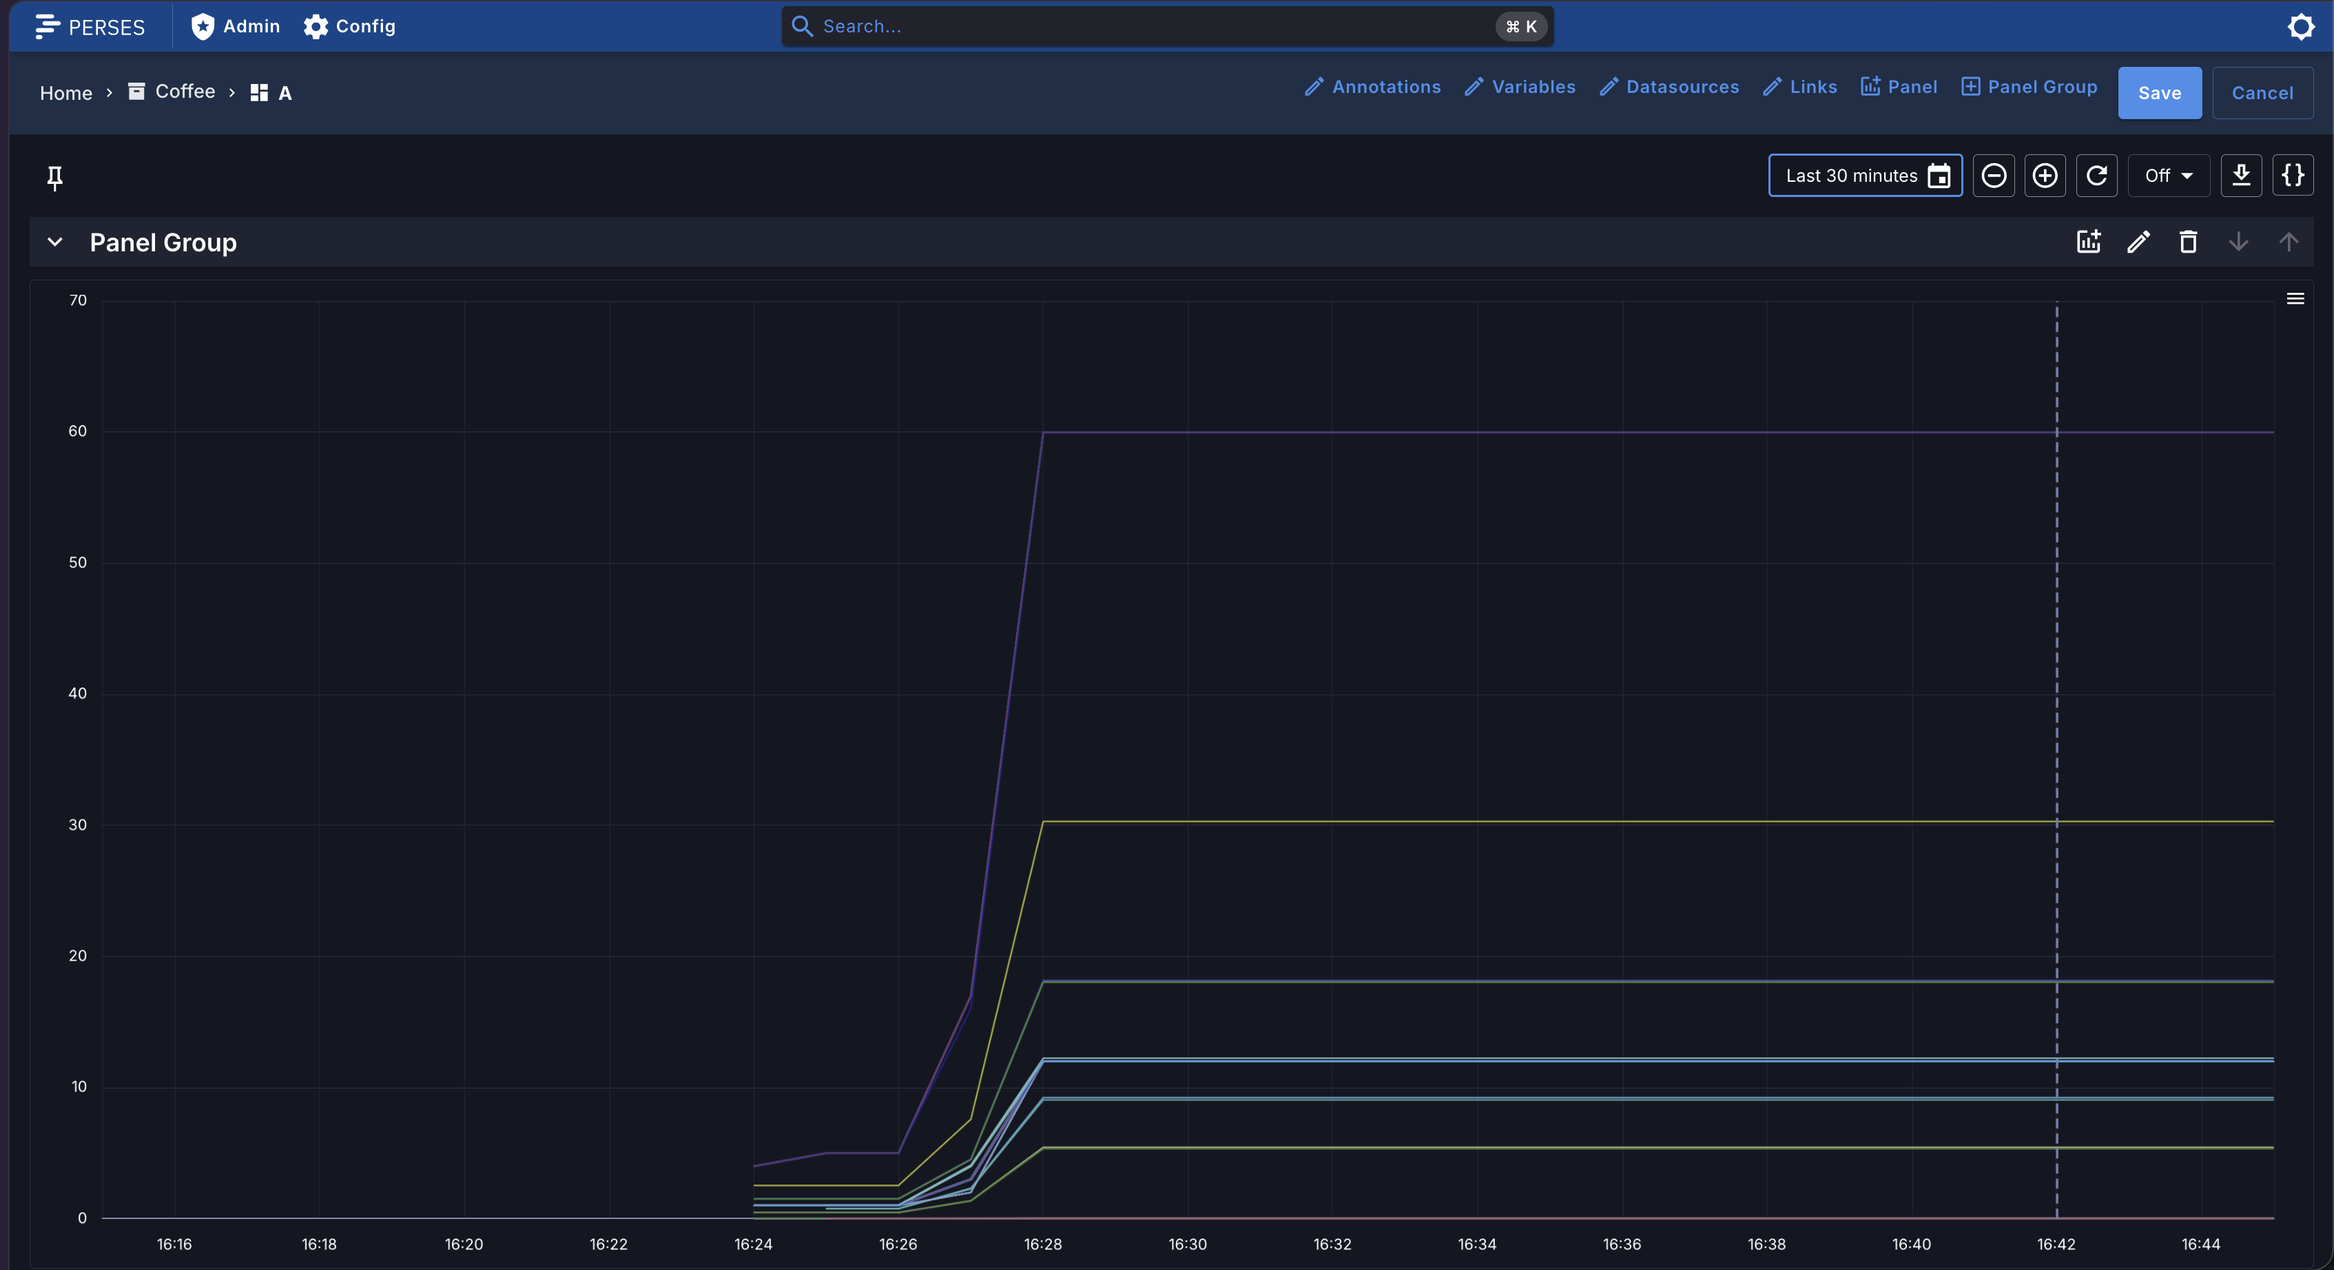
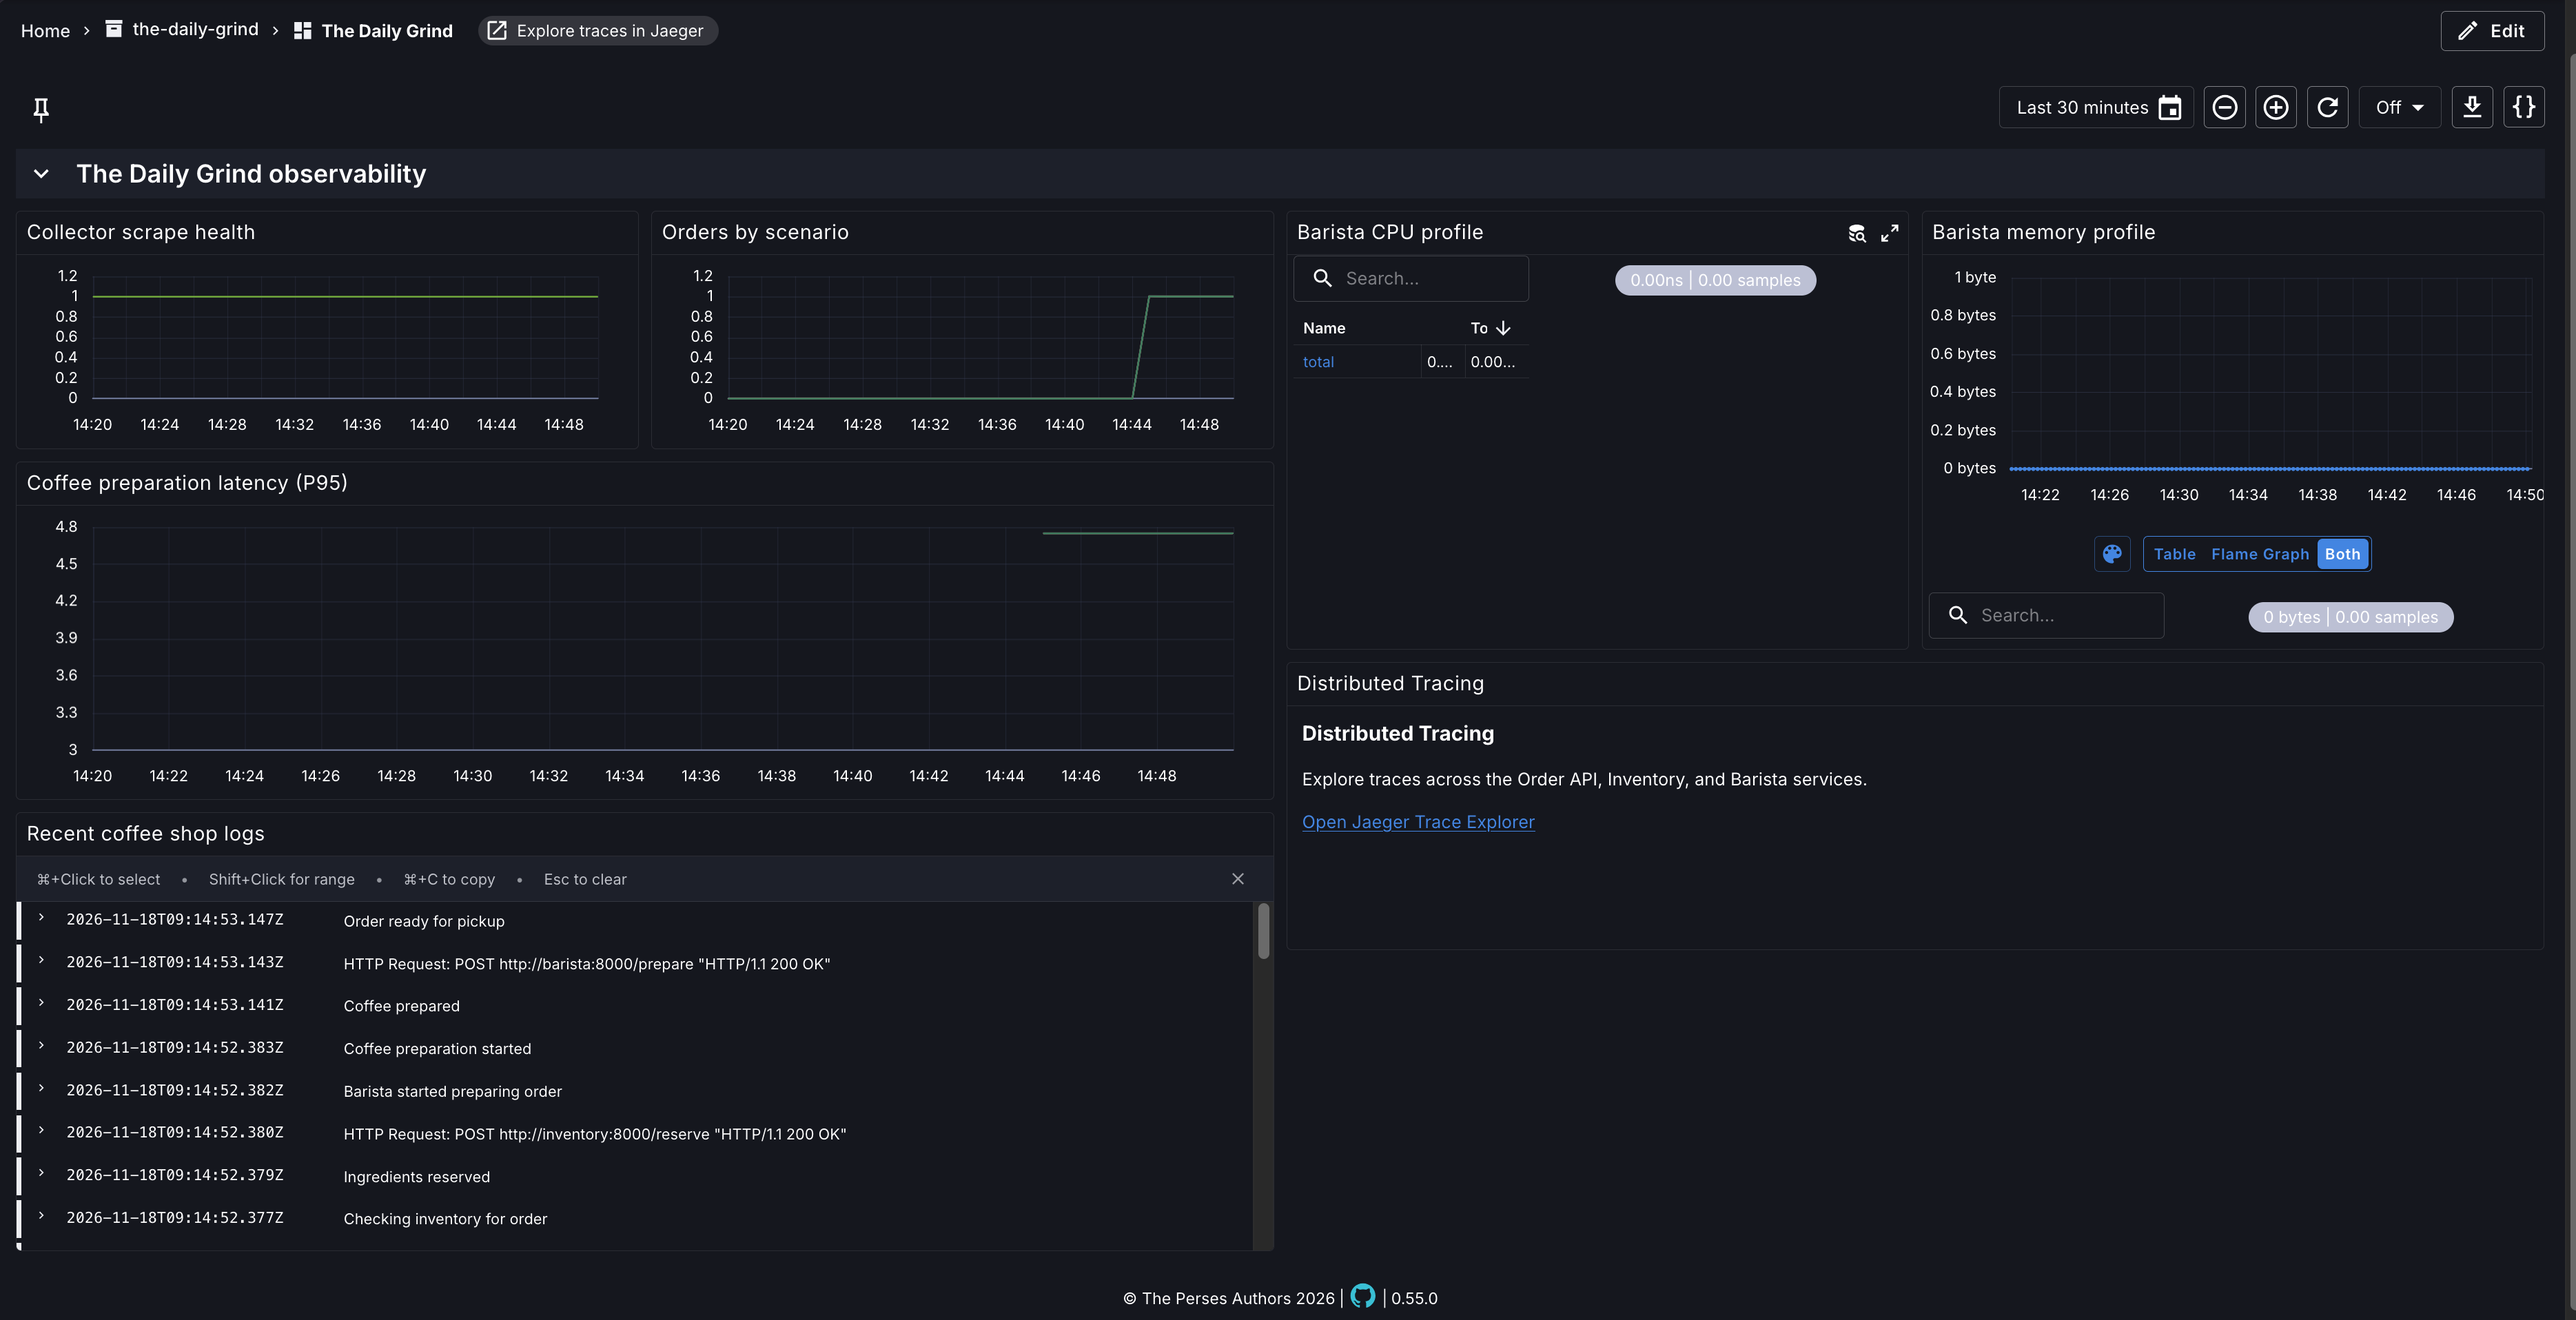
Add Dash0 implementation

diff --git a/README.md b/README.md
@@ -4,7 +4,7 @@ A small, interactive coffee shop application that demonstrates how **logs, metri
 
 Customers can choose from eight coffees, place an order, and select **Where is my coffee?** to follow its progress through the shop. Behind the scenes, three FastAPI services process the order and emit telemetry to an open-source observability stack.
 
-The application uses vendor-neutral OpenTelemetry instrumentation for traces, metrics, and logs. The Python Pyroscope SDK sends profiles directly to Pyroscope. Later, we can point the same application telemetry at Dash0 by changing the Collector exporters and replacing the profiling adapter with an OTLP-native profiler.
+The application uses vendor-neutral OpenTelemetry instrumentation for traces, metrics, and logs. The Python Pyroscope SDK sends profiles directly to Pyroscope. An optional Collector configuration also sends traces, metrics, and logs to Dash0; selected Pyroscope profiles can be exported as pprof and imported into Dash0 through the Collector.
 
 ## What this demonstrates
 
@@ -45,6 +45,18 @@ The screenshots below show one local run of the coffee shop demo and its telemet
 ### Dashboard in Perses
 
 ![Perses dashboard for coffee shop observability](docs/images/coffee-shop-Perses.png)
+
+### Dash0 comparison
+
+The same application telemetry can be explored in Dash0. These screenshots show the service inventory, service map, and dashboard. The profiling screenshot is an unfiltered Dash0 view; it does not identify a coffee shop service and should not be used as evidence of a Barista profile.
+
+![Coffee shop services in Dash0](docs/images/dash0-services-coffeeshop.png)
+
+![Coffee shop service map in Dash0](docs/images/dash0-serviceMap-coffeeshop.png)
+
+![Coffee shop dashboard in Dash0](docs/images/dash0-dashboard-coffeeshop.png)
+
+![Unfiltered Dash0 profiling explorer](docs/images/dash0-profile-coffeeshop.png)
 
 ## Customer experience
 
@@ -182,7 +194,7 @@ This SDK-based setup is portable across macOS and Linux. The eBPF profiler is a 
 ### Start the application
 
 ```bash
-cp .env.example .env
+cp .env.example .env  # First run only; do not overwrite an existing .env
 docker compose up --build -d
 ```
 
@@ -326,6 +338,94 @@ Create Perses datasources using these container-network URLs:
 
 For local experimentation, direct datasource URLs are convenient. For a shared deployment, configure authentication and reverse-proxy access rather than exposing backend services directly to browsers.
 
+## Optional Dash0 export
+
+The default stack keeps telemetry local. For an article comparison, `docker-compose.dash0.yml` fans out OTLP traces, metrics, and logs to Dash0 and the local backends. It also accepts OTLP profiles and forwards them to Dash0.
+
+On a Linux Docker host, add `docker-compose.dash0-profiles.yml` to collect CPU profiles from the application processes with the OpenTelemetry eBPF profiler. The app's Pyroscope SDK continues to send its own CPU and memory profiles to Pyroscope; these are separate profile streams. eBPF profiling requires privileged Linux host access and is not supported by this setup on macOS Docker Desktop.
+
+On macOS, export a merged profile already stored in Pyroscope. The Pyroscope UI in this stack may show individual profile IDs without an export action; use Grafana's `profilecli` to select a service and time range instead:
+
+```bash
+brew install pyroscope-io/brew/profilecli
+PROFILECLI_URL=http://localhost:4040 profilecli query series --from="now-1h" --to="now"
+PROFILECLI_URL=http://localhost:4040 profilecli query profile \
+  --profile-type=process_cpu:cpu:nanoseconds:cpu:nanoseconds \
+  --query='{service_name="coffee-shop.barista-service"}' \
+  --from="now-1h" --to="now" \
+  --output=pprof=./barista-cpu.pprof
+```
+
+If the series output shows a different `service_name`, use that value in `--query`. The command merges all matching profiles in the selected hour; no profile ID is needed. With the Dash0 override running, import the file through the Collector's localhost-only pprof receiver:
+
+```bash
+curl --fail-with-body --show-error \
+  -X POST http://127.0.0.1:4041/v1/pprof \
+  -H 'Content-Type: application/octet-stream' \
+  -H 'Content-Encoding: gzip' \
+  --data-binary @./barista-cpu.pprof
+```
+
+The command assumes the exported `.pprof` file is gzip-encoded; omit `Content-Encoding: gzip` if it is not. The pprof receiver converts the file to OTLP profiles and the Collector exports it to Dash0. This is a one-time import of the selected profile window, not continuous profiling. Check Dash0's **Telemetry > Profiling** view in the configured dataset. If the import fails, check `otel-collector` logs; do not send the `.pprof` file directly to Dash0's OTLP endpoint.
+
+On first setup, create `.env` from the example. If `.env` already exists, edit it in place so your credentials are not overwritten:
+
+```bash
+cp .env.example .env  # First run only
+```
+
+```dotenv
+DASH0_OTLP_GRPC_ENDPOINT=YOUR_DASH0_OTLP_GRPC_ENDPOINT
+DASH0_AUTH_TOKEN=YOUR_DASH0_AUTH_TOKEN
+DASH0_DATASET=default
+```
+
+Start the stack with the optional Dash0 override:
+
+```bash
+docker compose -f docker-compose.yml -f docker-compose.dash0.yml up --build -d --wait --wait-timeout 300
+```
+
+To send CPU profiles as well, run the stack on a Linux host:
+
+```bash
+docker compose -f docker-compose.yml -f docker-compose.dash0.yml -f docker-compose.dash0-profiles.yml up --build -d --wait --wait-timeout 300
+```
+
+Generate the same scenarios used in the local screenshots:
+
+```bash
+bash scripts/validate_scenarios.sh
+python3 scripts/validate_e2e.py
+for i in {1..5}; do bash scripts/generate_orders.sh; done
+```
+
+Wait 60-90 seconds for SDK and Collector batches to flush, then compare:
+
+- Jaeger trace search vs. Dash0 tracing for `service.name=order-api`.
+- Prometheus coffee metrics vs. Dash0 metrics for names beginning with `coffee.` or `coffee_`.
+- OpenSearch trace-correlated logs vs. Dash0 logs filtered by `service.name` and `trace_id`/trace context.
+- On Linux, look in Dash0's Profiling view for On-CPU profiles from `order-api`, `inventory-service`, and `barista-service`. Run repeated `slow_cpu` orders to produce a useful sample window.
+
+Check Collector health and logs if data is missing:
+
+```bash
+curl -sS http://localhost:13133/
+docker compose -f docker-compose.yml -f docker-compose.dash0.yml logs --since=10m otel-collector
+```
+
+On Linux, also check the profiler container if profiles are missing:
+
+```bash
+docker compose -f docker-compose.yml -f docker-compose.dash0.yml -f docker-compose.dash0-profiles.yml logs --since=10m otel-ebpf-profiler
+```
+
+Stop the Dash0 comparison stack with the same Compose files:
+
+```bash
+docker compose -f docker-compose.yml -f docker-compose.dash0.yml down
+```
+
 ## Docker end-to-end acceptance
 
 Run the automated workflow and telemetry checks after starting Docker:
@@ -335,7 +435,7 @@ docker compose up --build -d --wait --wait-timeout 300
 python3 scripts/validate_e2e.py
 ```
 
-This creates five orders and checks lifecycle history, distributed traces, correlated logs, and Prometheus metrics. Profiles and browser interactions require manual inspection. See [Docker validation results and runbook](docs/docker-validation.md) for prerequisites, coverage, limitations, and the recorded execution status. The current session could validate Compose and local test functions, but Docker execution was blocked by socket permissions.
+This creates five orders and checks lifecycle history, distributed traces, correlated logs, and Prometheus metrics. Profiles and browser interactions require manual inspection. See [Docker validation results and runbook](docs/docker-validation.md) for prerequisites, coverage, limitations, and the recorded execution status. The Dash0 Collector has started and accepted a pprof upload locally; full end-to-end acceptance is still pending.
 
 ## Tests
 
@@ -359,4 +459,10 @@ Remove containers and stored data for a clean reset:
 ```bash
 docker compose down -v
 ```
+
+## Publishing and security
+
+`.env`, `.env.*`, `.secrets/`, and `*.pprof` are ignored by Git; the Docker build context also excludes these files. Keep Dash0 tokens in the local `.env` file, never in screenshots or documentation. `.env.example` contains placeholders only.
+
+Compose binds published ports to `127.0.0.1` for local use. This stack includes local-only database credentials, an unauthenticated OpenSearch instance, and optional performance scenarios. Do not deploy this Compose configuration publicly. The Linux-only eBPF profiling overlay is privileged and mounts the Docker socket; use it only on a trusted Linux host.
 
